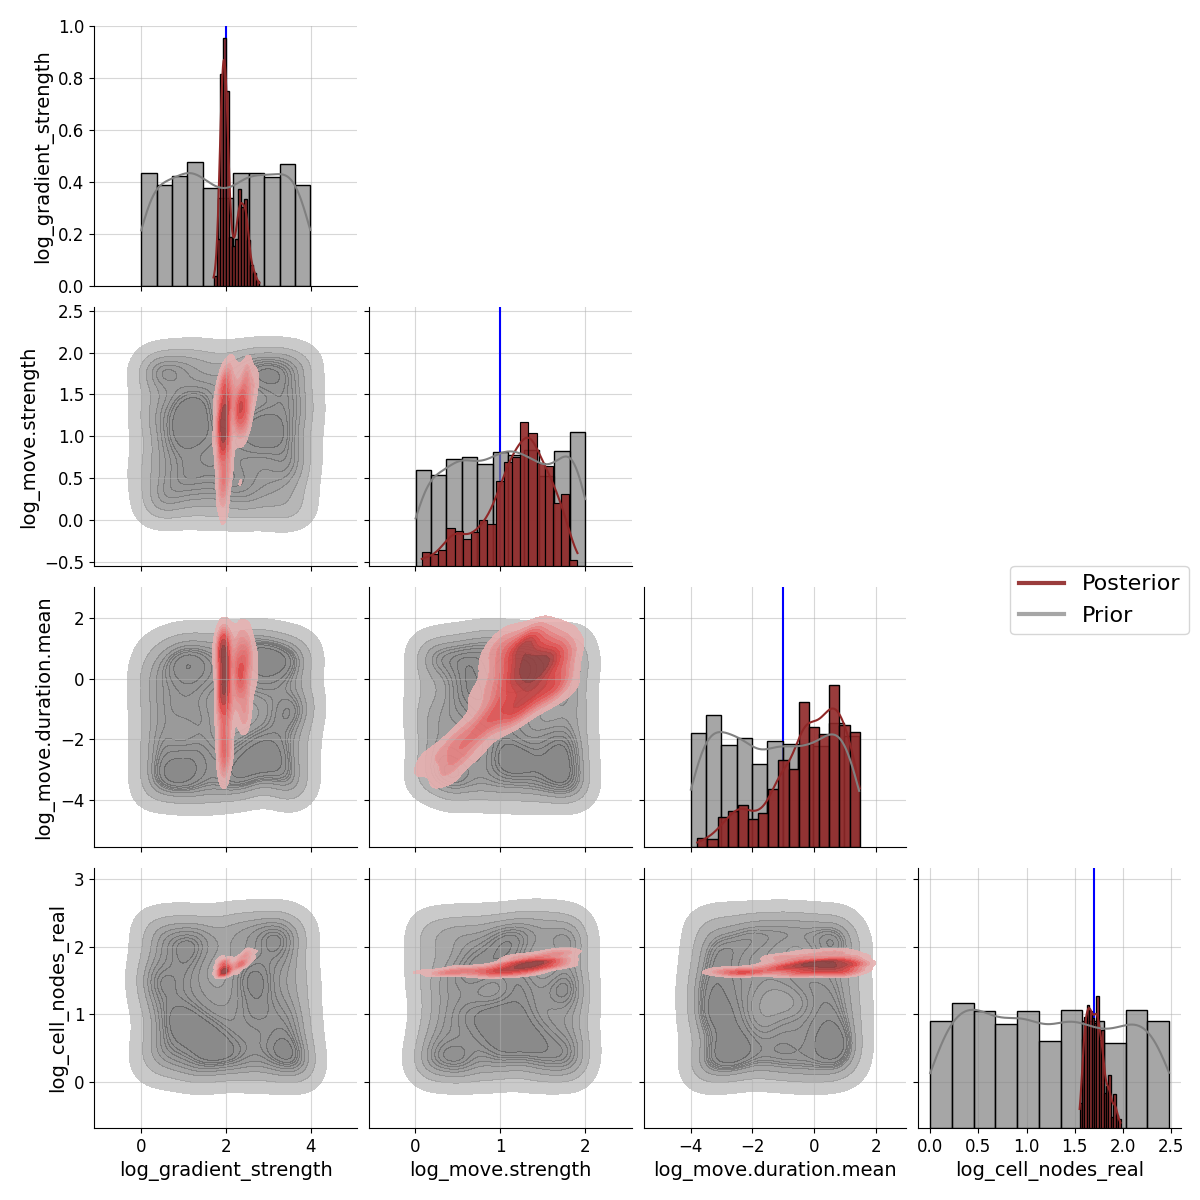
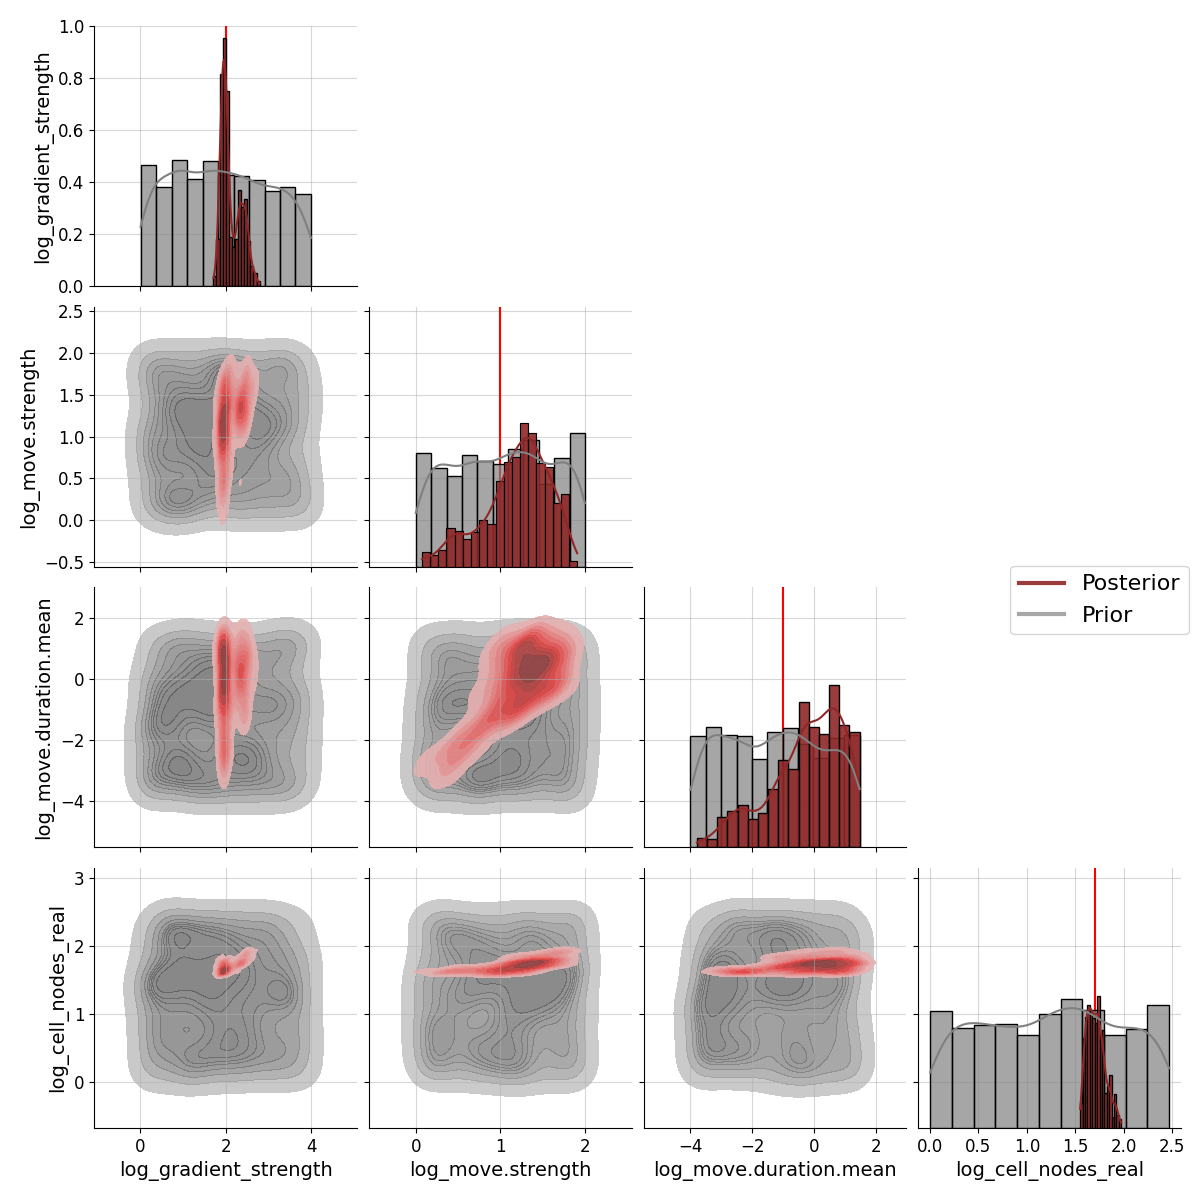
add real data to pyabc

diff --git a/cluster_setup/cell_migration_pyabc.py b/cluster_setup/cell_migration_pyabc.py
@@ -339,6 +339,85 @@ def compute_mean_summary_stats(simulation_list: list[dict], remove_nan: bool = T
     return result
 
 
+def load_real_data(data_id: int, max_sequence_length: int, cells_in_population: int):
+
+    if not data_id in [0, 1]:
+        raise ValueError("The data_id should be either 0 or 1")
+
+    # load real data
+    real_data_id = [0, 1][data_id]
+    if real_data_id == 0:
+        real_data_df = pd.read_csv('/home/jarruda_hpc/CellMigration/real_data/37C-1_crop.csv')
+        y_size = 739.79  # microns
+        x_size = 279.74  # microns
+        x_offset, y_offset = -7.5, -2  # correction such that the pillars are in the middle
+        y_lin_shift = 0
+    else:
+        # more important data set, closer to the truth
+        real_data_df = pd.read_csv('/home/jarruda_hpc/CellMigration/real_data/37C_ctrl2.csv')
+        y_size = 882.94  # microns
+        x_size = 287.03  # microns
+        x_offset, y_offset = -2, -7.5  # 3, 7.5  # correction such that the pillars are in the middle
+        y_lin_shift = -0.04  # 0.05  # correction for the tilt of the data
+
+    # define the window
+    # simulation coordinates, length of the gap: 1351-1145 = 206
+    # in real data: 270
+    # 270/206 = 1.31
+    # morpheus size of image: 1173x2500
+    factor = 1.31
+    # reconstruction of the window assuming that it is centered
+    # morpheus coordinates: 1173x2500x0
+    window_x1, window_x2 = (1173 - y_size / factor) / 2., 1173 - (1173 - y_size / factor) / 2.
+    window_y1, window_y2 = (2500 - x_size / factor) / 2., 2500 - (2500 - x_size / factor) / 2.
+
+    # remove first three rows
+    real_data_df = real_data_df.iloc[3:]
+    # only keep positions and time
+    real_data_df = real_data_df[['TRACK_ID', 'POSITION_X', 'POSITION_Y', 'POSITION_T']]
+    # convert to numeric
+    real_data_df = real_data_df.apply(pd.to_numeric, errors='coerce')
+
+    # scale to morpheus coordinates
+    real_data_scaled_df = real_data_df.copy()
+    real_data_scaled_df['x'] = real_data_scaled_df['POSITION_X'] / factor + window_x1
+    real_data_scaled_df['y'] = real_data_scaled_df['POSITION_Y'] / factor + window_y1
+    # real cells are moving downwards, but in simulations they are going upwards
+    real_data_scaled_df['y'] = 2500 - real_data_scaled_df['y']
+    # data does not fit optimally, so we need to shift it
+    real_data_scaled_df['x'] += x_offset
+    real_data_scaled_df['y'] += y_offset
+    # data is tilted
+    real_data_scaled_df['x'] = real_data_scaled_df['x'] + (window_y2 - real_data_scaled_df['y']) * y_lin_shift
+    # time
+    real_data_scaled_df['t'] = real_data_scaled_df['POSITION_T']
+
+    real_data = []
+    cut_region_real_data = True
+    sequence_lengths_real = []
+    # each cell is of different length, each with x and y coordinates, make a tensor out of it
+    for s_id, sample in enumerate(real_data_scaled_df.TRACK_ID.unique()):
+        cell = real_data_scaled_df[real_data_scaled_df.TRACK_ID == sample]
+        # order by time
+        cell = cell.sort_values('POSITION_T', ascending=True)
+        sequence_lengths_real.append(len(cell['y']))
+        if cut_region_real_data:
+            cell = cut_region(cell, x_min=316.5, x_max=856.5, y_min=1145, y_max=1351, return_longest=True)
+            if cell is None:
+                continue
+            cell = cell[0]
+        # pre-pad the data with zeros, but first write zeros as nans to compute the mean and std
+        track = np.ones((max_sequence_length + 1, 2)) * np.nan
+        track[-len(cell['x'][:max_sequence_length]):, 0] = cell['x'][:max_sequence_length]
+        track[-len(cell['y'][:max_sequence_length]):, 1] = cell['y'][:max_sequence_length]
+        real_data.append(track[1:])  # remove the first time point, same as in the simulation (often nan anyway)
+
+    real_data = np.stack(real_data)
+    real_data_full = real_data.copy()
+    real_data = real_data[:cells_in_population * (real_data_full.shape[0] // cells_in_population)]
+    return real_data, real_data_full
+
+
 def custom_loader(file_path):
     """Uses pickle to load, but each path is folder with multiple files, each one batch"""
     # load all files in folder
@@ -624,7 +703,8 @@ n_procs = int(os.environ.get('SLURM_CPUS_PER_TASK', 1))
 print(job_array_id)
 on_cluster = True
 population_size = 1000
-run_old_sumstats = True
+run_old_sumstats = False
+load_synthetic_data = False
 
 parser = argparse.ArgumentParser(description='Parse necessary arguments')
 parser.add_argument('-pt', '--port', type=str, default="50004",
@@ -738,12 +818,21 @@ prior = pyabc.Distribution(**{key: pyabc.RV("uniform", loc=lb, scale=ub-lb)
 param_names = list(obs_pars.keys())
 print(obs_pars)
 #%%
-# simulate test data
-test_params = np.array(list(obs_pars_log.values()))
-if not os.path.exists(os.path.join(gp, 'test_sim.npy')):
-    raise FileNotFoundError('Test data not found')
+if load_synthetic_data:
+    # simulate test data
+    test_params = np.array(list(obs_pars_log.values()))
+    if not os.path.exists(os.path.join(gp, 'test_sim.npy')):
+        raise FileNotFoundError('Test data not found')
+    else:
+        test_sim = np.load(os.path.join(gp, 'test_sim.npy'))
 else:
-    test_sim = np.load(os.path.join(gp, 'test_sim.npy'))
+    # load real data
+    real_data, real_data_full = load_real_data(data_id=1,
+                                               max_sequence_length=max_sequence_length,
+                                               cells_in_population=cells_in_population)
+    test_sim = \
+    np.array([real_data[start:start + cells_in_population] for start in range(0, len(real_data), cells_in_population)])[
+        0][np.newaxis]
 #%%
 def obj_func_wass(sim: dict, obs: dict):
     total = 0
@@ -765,7 +854,7 @@ if run_old_sumstats:
                        population_size=population_size,
                        sampler=redis_sampler)
 
-    db_path = os.path.join(gp, "synthetic_test_old_sumstats.db")
+    db_path = os.path.join(gp, f"{'synthetic' if load_synthetic_data else 'real'}_test_old_sumstats.db")
     history = abc.new("sqlite:///" + db_path, make_sumstat_dict(test_sim))
 
     #start the abc fitting
@@ -860,7 +949,7 @@ abc_nn = pyabc.ABCSMC(model_nn, prior, # here we use now the Euclidean distance
                    population_size=population_size,
                    summary_statistics=make_sumstat_dict_nn,
                    sampler=redis_sampler)
-db_path = os.path.join(gp, "synthetic_test_nn_sumstats.db")
+db_path = os.path.join(gp, f"{'synthetic' if load_synthetic_data else 'real'}_test_nn_sumstats.db")
 print(db_path)
 history = abc_nn.new("sqlite:///" + db_path, obs_nn)
 
